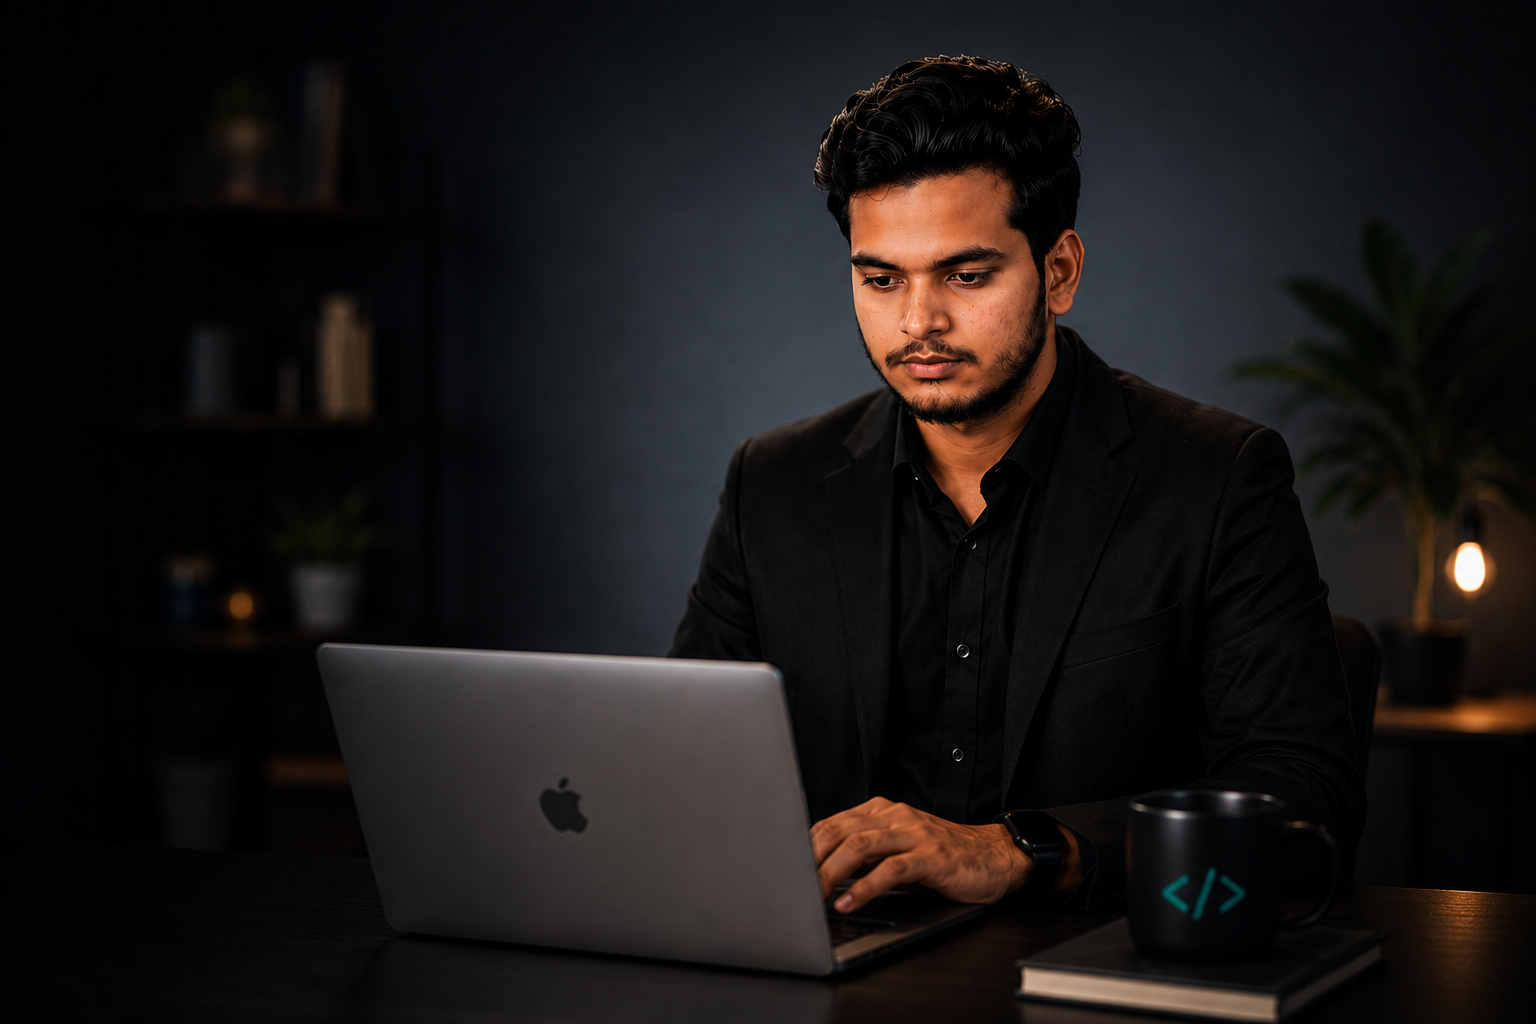
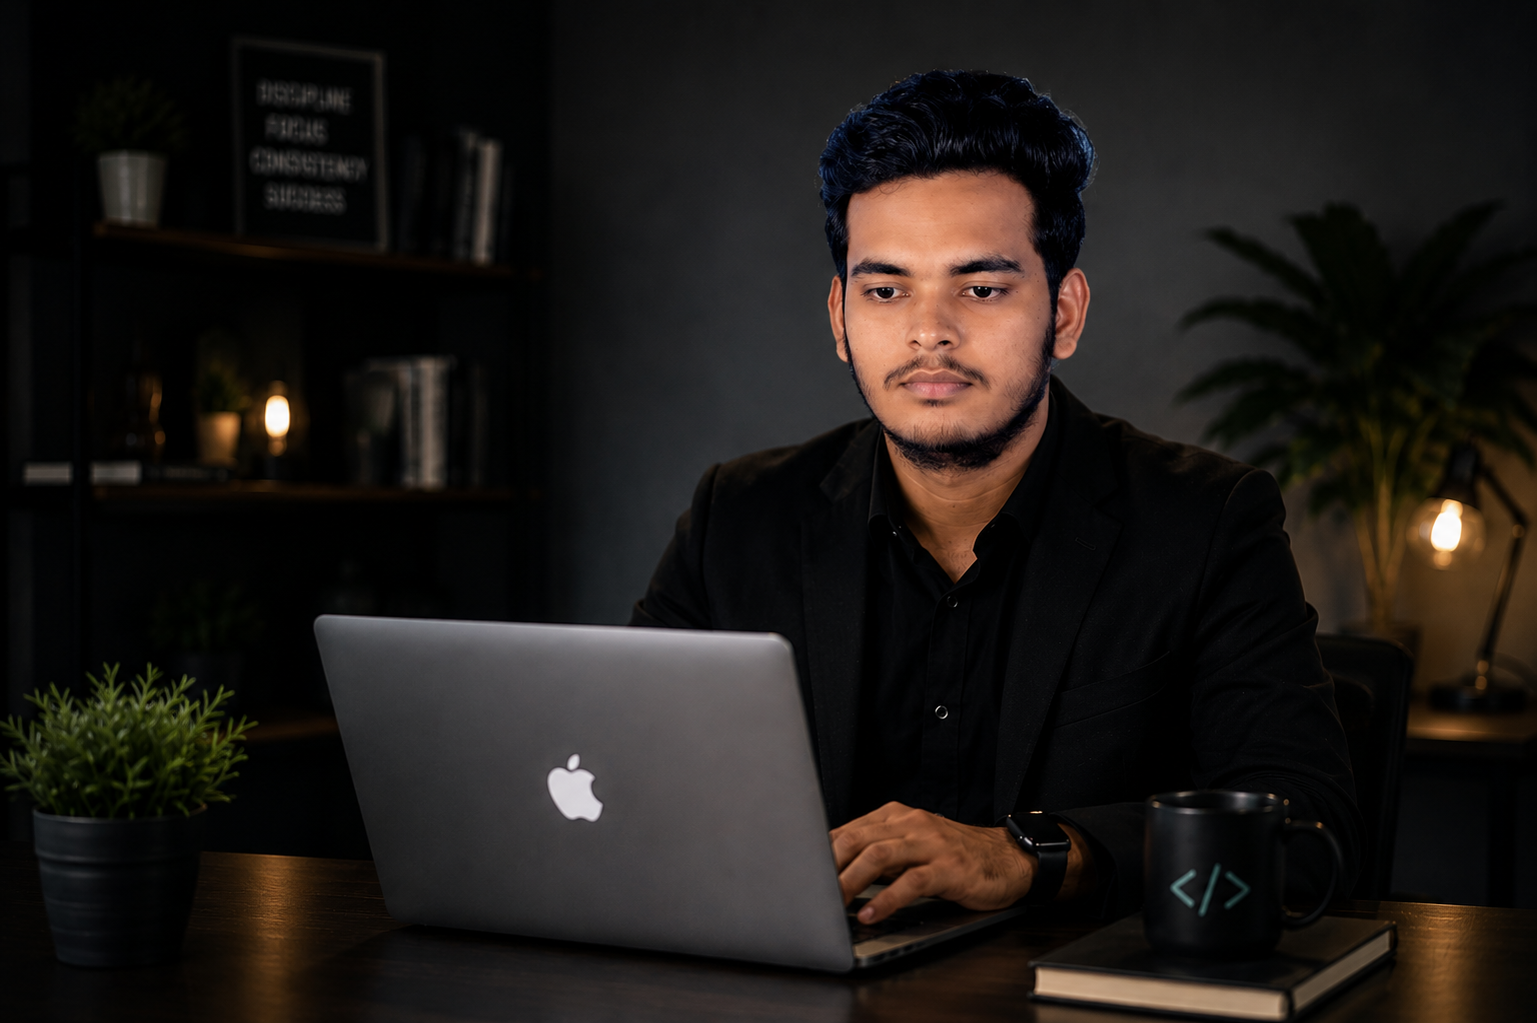
Projects section

diff --git a/index.html b/index.html
@@ -675,7 +675,7 @@
 
                 <div class="featured-image">
 
-                    <img src="./assets/images/tourism-project.jpg" alt="Tourism Project">
+                    <img src="./assets/images/tourism-project.png" alt="Tourism Project">
 
                 </div>
 
@@ -789,7 +789,7 @@
 
                 <div class="project-card">
 
-                    <img src="./assets/images/expense-tracker.jpg" alt="">
+                    <img src="./assets/images/expense-tracker.png" alt="">
 
                     <div class="project-body">
 
@@ -822,7 +822,7 @@
 
                 <div class="project-card">
 
-                    <img src="./assets/images/smart-card.jpg" alt="">
+                    <img src="./assets/images/smart-card.png" alt="">
 
                     <div class="project-body">
 
